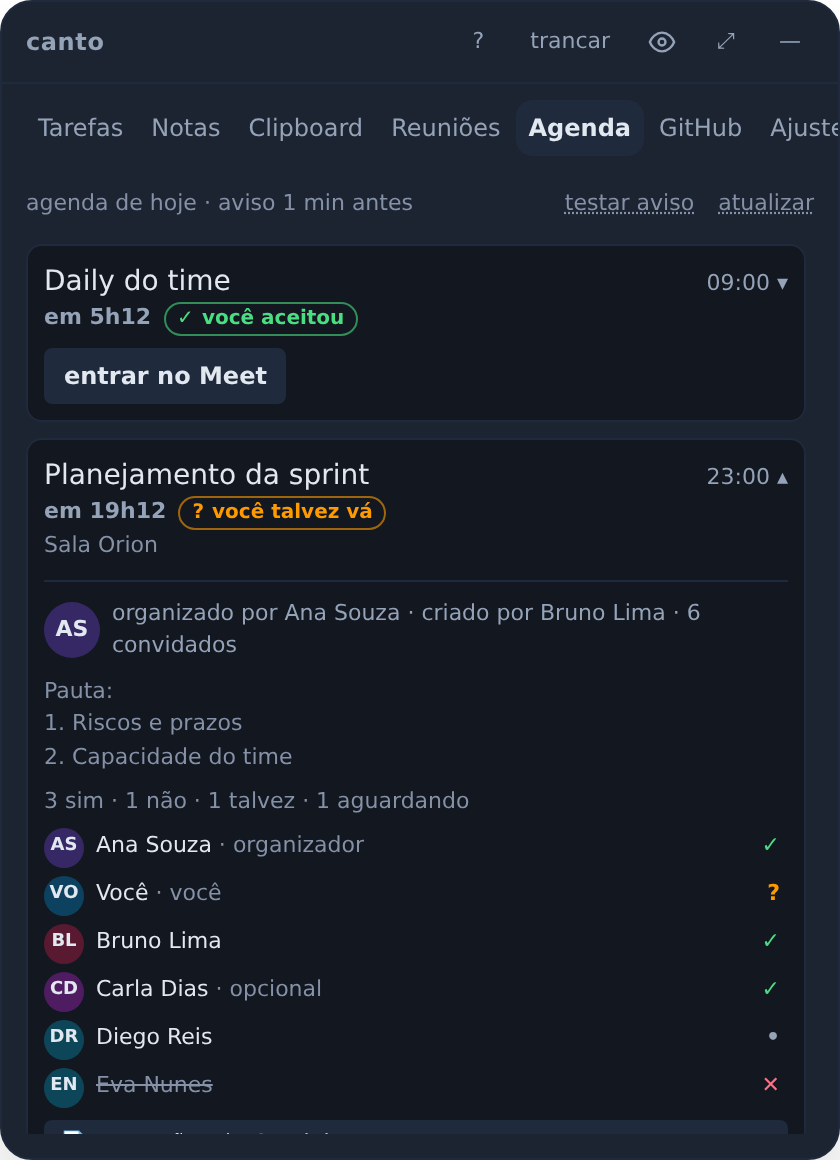
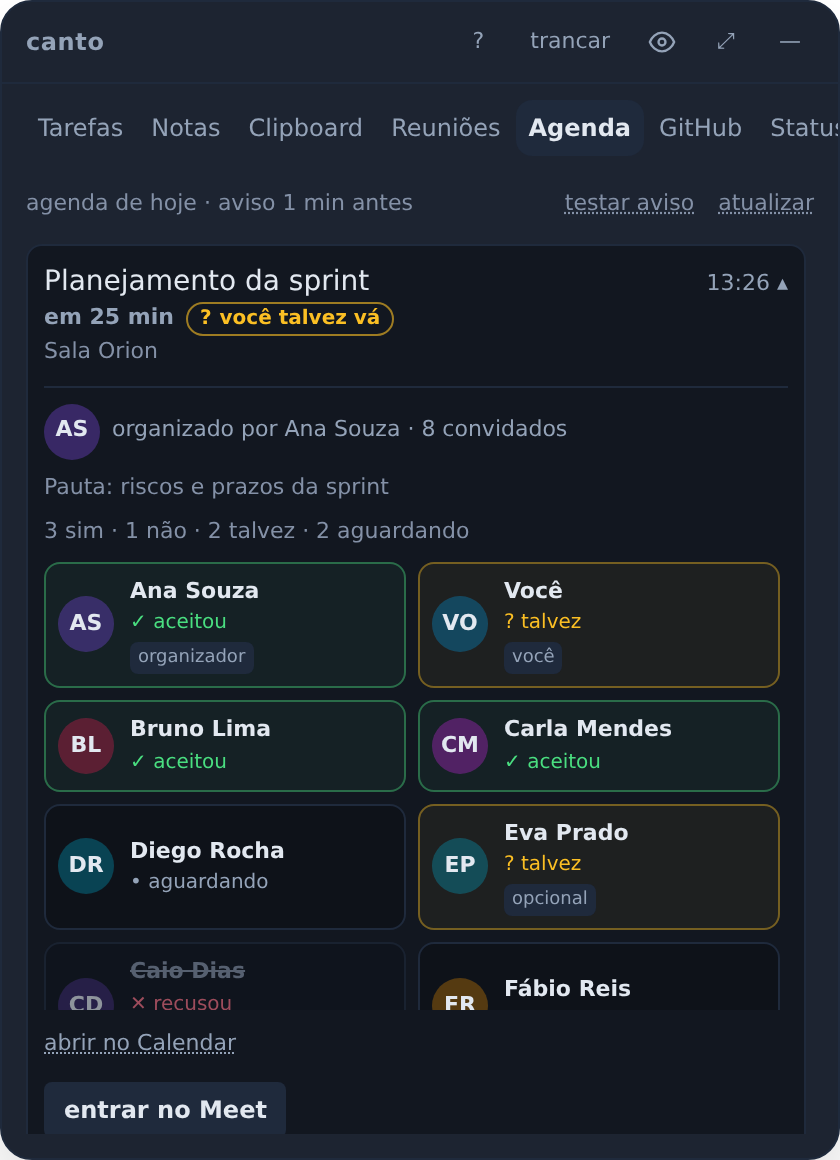
feat(agenda): guest list as a grid of mini cards
Each guest is now a small card in a two-column grid: avatar, the answer
with icon and word, and organizer/optional/you tags; declined guests are
faded. Accepted/tentative use the new ok/warn tokens instead of the accent
and a fixed amber, since the accent is red in the Hueco Mundo skin and made
"accepted" read as a refusal (same fix in the RSVP badge).

Claude-Session: https://claude.ai/code/session_01NvVAVLfigwZibdVop6P8CV

diff --git a/src/components/AgendaGuests.tsx b/src/components/AgendaGuests.tsx
@@ -4,29 +4,55 @@ import { t } from "../i18n";
 import Avatar from "./Avatar";
 import { GUEST_ICON } from "./RsvpBadge";
 
-const ICON_TONE: Record<string, string> = { accepted: "text-accent", declined: "text-danger", tentative: "text-amber-500" };
+/** Semantic tokens, not the accent: in some skins the accent is red and "accepted" would read as a refusal. */
+const TONE: Record<string, { card: string; text: string }> = {
+  accepted: { card: "border-ok/40 bg-ok/5", text: "text-ok" },
+  declined: { card: "border-edge bg-ink/40 opacity-60", text: "text-danger" },
+  tentative: { card: "border-warn/40 bg-warn/5", text: "text-warn" },
+};
+const PENDING = { card: "border-edge bg-ink/60", text: "text-muted" };
 
-/** Who's invited and how each one answered; `total` counts guests Rust left off the capped list. */
+/** Who's invited and how each one answered, as mini cards; `total` counts guests Rust left off the capped list. */
 export default function AgendaGuests({ guests, total }: { guests: Guest[]; total: number }) {
   if (guests.length === 0) return null;
   const hidden = total - guests.length;
   return (
-    <section aria-label={t("agenda.guestList")} className="space-y-1">
+    <section aria-label={t("agenda.guestList")} className="space-y-1.5">
       <p className="text-faint">{t("agenda.guestTally", tally(guests))}</p>
-      <ul className="max-h-40 space-y-1 overflow-y-auto pr-1">
+      <ul className="grid max-h-56 grid-cols-2 gap-1.5 overflow-y-auto pr-1">
         {guests.map((g) => {
           const answer = t(`agenda.guest.${g.response || "needsAction"}`);
-          const tags = [g.organizer && t("agenda.guest.organizer"), g.optional && t("agenda.guest.optional"), g.me && t("agenda.guest.me")].filter(Boolean);
+          const tone = TONE[g.response] ?? PENDING;
+          const tags = [
+            g.organizer && t("agenda.guest.organizer"),
+            g.optional && t("agenda.guest.optional"),
+            g.me && t("agenda.guest.me"),
+          ].filter((tag): tag is string => Boolean(tag));
           return (
-            <li key={g.email || g.name} className="flex items-center gap-1.5" title={g.email}>
-              <Avatar name={g.name} email={g.email} />
-              <span className={`min-w-0 flex-1 truncate ${g.response === "declined" ? "text-faint line-through" : "text-fg"}`}>
-                {g.name}
-                {tags.length > 0 && <span className="text-faint"> · {tags.join(" · ")}</span>}
-              </span>
-              <span className={`shrink-0 font-semibold ${ICON_TONE[g.response] ?? "text-muted"}`} title={answer}>
-                <span aria-hidden="true">{GUEST_ICON[g.response]}</span>
-                <span className="sr-only">{answer}</span>
+            <li
+              key={g.email || g.name}
+              title={g.email}
+              data-response={g.response || "needsAction"}
+              className={`flex min-w-0 items-center gap-2 rounded-lg border p-1.5 ${tone.card}`}
+            >
+              <Avatar name={g.name} email={g.email} size="md" />
+              <span className="flex min-w-0 flex-col">
+                <span className={`truncate text-[11px] font-semibold ${g.response === "declined" ? "text-faint line-through" : "text-fg"}`}>
+                  {g.name}
+                </span>
+                <span className={`truncate text-[10px] font-medium ${tone.text}`}>
+                  <span aria-hidden="true">{GUEST_ICON[g.response]} </span>
+                  {answer}
+                </span>
+                {tags.length > 0 && (
+                  <span className="flex flex-wrap gap-1 pt-0.5">
+                    {tags.map((tag) => (
+                      <span key={tag} className="rounded bg-edge px-1 text-[9px] leading-4 text-muted">
+                        {tag}
+                      </span>
+                    ))}
+                  </span>
+                )}
               </span>
             </li>
           );

diff --git a/src/components/AgendaTab.test.tsx b/src/components/AgendaTab.test.tsx
@@ -82,9 +82,11 @@ test("the card shows my answer as a badge and the details list each guest with t
   fireEvent.click(screen.getByRole("button", { name: /Planejamento da sprint/ }));
   const list = screen.getByRole("region", { name: "Convidados" });
   expect(list.textContent).toContain("1 sim · 1 não · 1 talvez · 0 aguardando");
-  expect(list.textContent).toContain("Ana Souza · organizador");
-  expect(list.textContent).toContain("Caio Dias · opcional");
-  expect(list.textContent).toContain("recusou");
+  const card = (name: string) => screen.getByText(name).closest("li")!;
+  expect(list.querySelector("ul")?.className).toContain("grid-cols-2");
+  expect(card("Ana Souza").textContent).toContain("organizador");
+  expect(card("Caio Dias").textContent).toContain("opcional");
+  expect(list.querySelector('[data-response="declined"]')?.textContent).toContain("recusou");
   expect(list.textContent).toContain("+3 não listados");
   expect(screen.getAllByText("AS").length).toBe(2);
 });

diff --git a/src/components/RsvpBadge.tsx b/src/components/RsvpBadge.tsx
@@ -2,9 +2,9 @@ import type { Rsvp } from "../lib/api";
 import { t } from "../i18n";
 
 const LOOK: Record<Rsvp, { icon: string; tone: string }> = {
-  accepted: { icon: "✓", tone: "border-accent/60 text-accent" },
+  accepted: { icon: "✓", tone: "border-ok/60 text-ok" },
   declined: { icon: "✕", tone: "border-danger/60 text-danger line-through" },
-  tentative: { icon: "?", tone: "border-amber-500/60 text-amber-500" },
+  tentative: { icon: "?", tone: "border-warn/60 text-warn" },
   needsAction: { icon: "•", tone: "border-line text-muted" },
 };
 

diff --git a/CHANGELOG.md b/CHANGELOG.md
@@ -7,6 +7,10 @@ versões em [SemVer](https://semver.org/lang/pt-BR/).
 
 ### Adicionado
 
+- **Convidados em mini cards**: nos detalhes do evento, cada convidado vira um card numa grade de dois, com
+  avatar, resposta (ícone e palavra: aceitou, talvez, recusou, aguardando), etiquetas de organizador, opcional e
+  você; quem recusou aparece esmaecido. "Aceitou" usa a cor de sucesso da skin, não o destaque (que é vermelho na
+  Hueco Mundo).
 - **Status API em mini cards**: grade de dois por linha, cada card com a cor e a palavra do estado (operacional,
   instável, fora do ar, manutenção, incidente recente, sem resposta), o último incidente e a descrição ao vivo;
   o cabeçalho resume quantos estão com problema. Clicar abre o histórico do serviço na largura toda.
